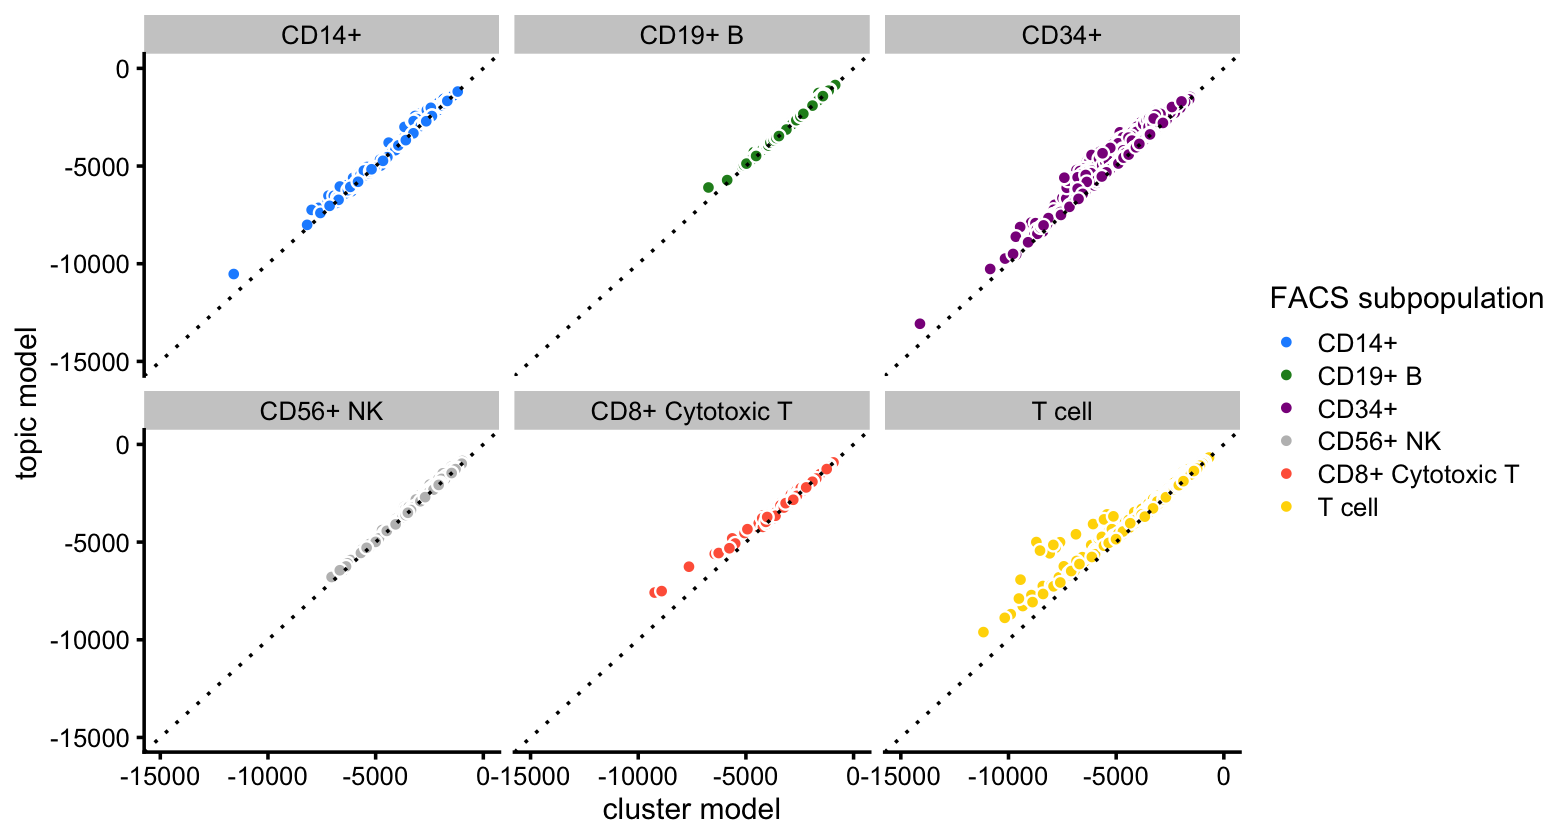
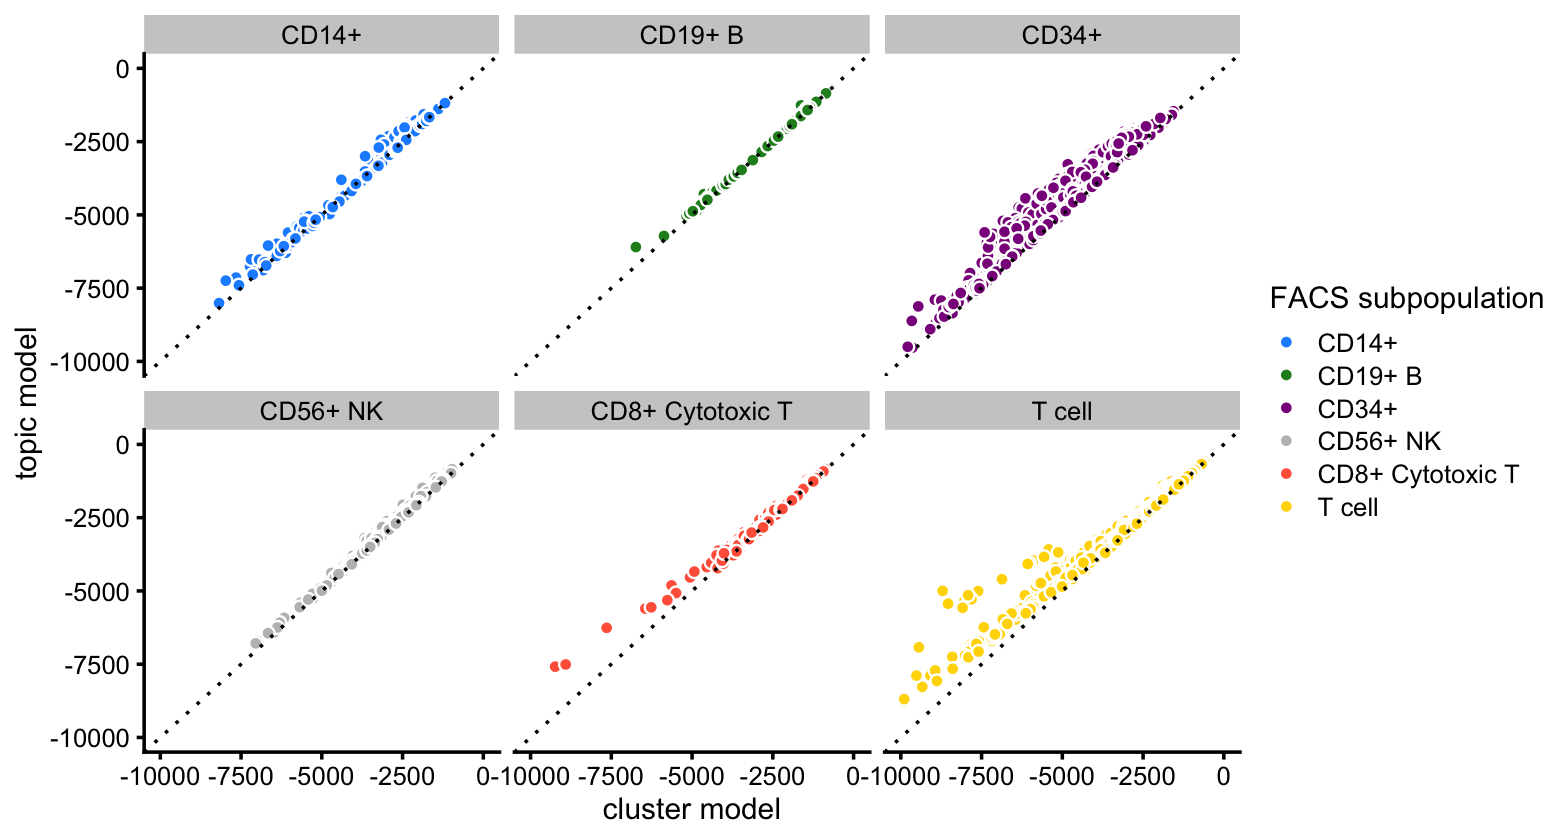
Added more scatterplots to loglik_purified_pbmc analysis.

diff --git a/docs/loglik_purified_pbmc.html b/docs/loglik_purified_pbmc.html
@@ -323,7 +323,7 @@ $(document).ready(function () {
 <div class="tab-content">
 <div id="summary" class="tab-pane fade in active">
 <p>
-<strong>Last updated:</strong> 2021-01-05
+<strong>Last updated:</strong> 2021-01-06
 </p>
 <p>
 <strong>Checks:</strong> <span class="glyphicon glyphicon-ok text-success" aria-hidden="true"></span> 7 <span class="glyphicon glyphicon-exclamation-sign text-danger" aria-hidden="true"></span> 0
@@ -414,16 +414,16 @@ This reproducible <a href="http://rmarkdown.rstudio.com">R Markdown</a> analysis
 <div class="panel panel-default">
 <div class="panel-heading">
 <p class="panel-title">
-<a data-toggle="collapse" data-parent="#workflowr-checks" href="#strongRepositoryversionstrongahrefhttpsgithubcomstephenslabsinglecelltopicstree3faedcf1fcbbf04c41f21b36d8855766fda66f00targetblank3faedcfa"> <span class="glyphicon glyphicon-ok text-success" aria-hidden="true"></span> <strong>Repository version:</strong> <a href="https://github.com/stephenslab/single-cell-topics/tree/3faedcf1fcbbf04c41f21b36d8855766fda66f00" target="_blank">3faedcf</a> </a>
+<a data-toggle="collapse" data-parent="#workflowr-checks" href="#strongRepositoryversionstrongahrefhttpsgithubcomstephenslabsinglecelltopicstree994fafcf53e188c0ed02b6a7cd298da01357cd7etargetblank994fafca"> <span class="glyphicon glyphicon-ok text-success" aria-hidden="true"></span> <strong>Repository version:</strong> <a href="https://github.com/stephenslab/single-cell-topics/tree/994fafcf53e188c0ed02b6a7cd298da01357cd7e" target="_blank">994fafc</a> </a>
 </p>
 </div>
[2 lines of base64/hex data omitted]
 <div class="panel-body">
 <p>
 Great! You are using Git for version control. Tracking code development and connecting the code version to the results is critical for reproducibility.
 </p>
 <p>
-The results in this page were generated with repository version <a href="https://github.com/stephenslab/single-cell-topics/tree/3faedcf1fcbbf04c41f21b36d8855766fda66f00" target="_blank">3faedcf</a>. See the <em>Past versions</em> tab to see a history of the changes made to the R Markdown and HTML files.
+The results in this page were generated with repository version <a href="https://github.com/stephenslab/single-cell-topics/tree/994fafcf53e188c0ed02b6a7cd298da01357cd7e" target="_blank">994fafc</a>. See the <em>Past versions</em> tab to see a history of the changes made to the R Markdown and HTML files.
 </p>
 <p>
 Note that you need to be careful to ensure that all relevant files for the analysis have been committed to Git prior to generating the results (you can use <code>wflow_publish</code> or <code>wflow_git_commit</code>). workflowr only checks the R Markdown file, but you know if there are other scripts or data files that it depends on. Below is the status of the Git repository when the results were generated:
@@ -447,11 +447,8 @@ Ignored files:
     Ignored:    output/pulseseq/rds/
 
 Untracked files:
-    Untracked:  analysis/clustering-pbmc-purified.rds
+    Untracked:  analysis/plots_purified_pbmc_cache/
     Untracked:  plots/
-
-Unstaged changes:
-    Modified:   analysis/plots_purified_pbmc.Rmd
 
 </code></pre>
 <p>
@@ -490,6 +487,57 @@ Message
 </tr>
 </thead>
 <tbody>
+<tr>
+<td>
+Rmd
+</td>
+<td>
+<a href="https://github.com/stephenslab/single-cell-topics/blob/994fafcf53e188c0ed02b6a7cd298da01357cd7e/analysis/loglik_purified_pbmc.Rmd" target="_blank">994fafc</a>
+</td>
+<td>
+Peter Carbonetto
+</td>
+<td>
+2021-01-06
+</td>
+<td>
+workflowr::wflow_publish(“loglik_purified_pbmc.Rmd”)
+</td>
+</tr>
+<tr>
+<td>
+Rmd
+</td>
+<td>
+<a href="https://github.com/stephenslab/single-cell-topics/blob/4d3523f2c5b916db049f45fc4c13d4b9288224f2/analysis/loglik_purified_pbmc.Rmd" target="_blank">4d3523f</a>
+</td>
+<td>
+Peter Carbonetto
+</td>
+<td>
+2021-01-06
+</td>
+<td>
+Recreated purified_pbmc volcano plots after removing cache.
+</td>
+</tr>
+<tr>
+<td>
+html
+</td>
+<td>
+<a href="https://rawcdn.githack.com/stephenslab/single-cell-topics/0a1bc0c41b6ca7320c1b089a9dd691aaae59f0c7/docs/loglik_purified_pbmc.html" target="_blank">0a1bc0c</a>
+</td>
+<td>
+Peter Carbonetto
+</td>
+<td>
+2021-01-05
+</td>
+<td>
+Added some explanatory text to the loglik_purified_pbmc analysis.
+</td>
+</tr>
 <tr>
 <td>
 Rmd
@@ -888,12 +936,13 @@ pdat &lt;- data.frame(x = loglik_subpop,y = loglik,celltype = celltype)
 p3 &lt;- ggplot(pdat,aes(x = x,y = y,fill = celltype)) +
   geom_point(shape = 21,color = &quot;white&quot;) +
   geom_abline(intercept = 0,slope = 1,linetype = &quot;dotted&quot;) +
-  scale_x_continuous(limits = c(-15000,0),breaks = seq(-20000,0,2500)) +
-  scale_y_continuous(limits = c(-15000,0),breaks = seq(-20000,0,2500)) +
+  scale_x_continuous(limits = c(-10000,0),breaks = seq(-10000,0,2500)) +
+  scale_y_continuous(limits = c(-10000,0),breaks = seq(-10000,0,2500)) +
   scale_fill_manual(values = facs_colors) +
   labs(x = &quot;cluster model&quot;,y = &quot;topic model&quot;,fill = &quot;FACS subpopulation&quot;) +
   theme_cowplot(font_size = 9)
-print(p3)</code></pre>
+print(p3)
+# Warning: Removed 7 rows containing missing values (geom_point).</code></pre>
 <p><img src="figure/loglik_purified_pbmc.Rmd/loglik-5-1.png" width="480" style="display: block; margin: auto;" /></p>
 <p>
 <button type="button" class="btn btn-default btn-xs btn-workflowr btn-workflowr-fig" data-toggle="collapse" data-target="#fig-loglik-5-1">
@@ -948,12 +997,13 @@ Peter Carbonetto
   geom_point(shape = 21,color = &quot;white&quot;) +
   geom_abline(intercept = 0,slope = 1,linetype = &quot;dotted&quot;) +
   facet_wrap(vars(celltype)) +
-  scale_x_continuous(limits = c(-15000,0),breaks = seq(-20000,0,5000)) +
-  scale_y_continuous(limits = c(-15000,0),breaks = seq(-20000,0,5000)) +
+  scale_x_continuous(limits = c(-10000,0),breaks = seq(-10000,0,2500)) +
+  scale_y_continuous(limits = c(-10000,0),breaks = seq(-10000,0,2500)) +
   scale_fill_manual(values = facs_colors) +
   labs(x = &quot;cluster model&quot;,y = &quot;topic model&quot;,fill = &quot;FACS subpopulation&quot;) +
   theme_cowplot(font_size = 9)
-print(p4)</code></pre>
+print(p4)
+# Warning: Removed 7 rows containing missing values (geom_point).</code></pre>
 <p><img src="figure/loglik_purified_pbmc.Rmd/loglik-6-1.png" width="780" style="display: block; margin: auto;" /></p>
 <p>
 <button type="button" class="btn btn-default btn-xs btn-workflowr btn-workflowr-fig" data-toggle="collapse" data-target="#fig-loglik-6-1">
@@ -1004,6 +1054,27 @@ Peter Carbonetto
 </div>
 </div>
 <p>It is interesting that the topic model almost always provides a better fit for the T cells considering that the simple “clustering” model estimates a different expression pattern for each T cell subtype (e.g., naive T cells), whereas the topic model does not reach this level of granularity in the T cells.</p>
+<p>Finally, we compare the topic model likelihoods against another “clustering” model, this time using the clusters identifies from the mixture proportions.</p>
+<pre class="r"><code>fit_clusters &lt;- init_poisson_nmf_from_clustering(counts,samples$cluster)
+fit_clusters &lt;- poisson2multinom(fit_clusters)
+loglik_clusters &lt;- loglik_multinom_topic_model(counts,fit_clusters)</code></pre>
+<p>This is an interesting case where defining a separate cluster for the dendritic cells actually yields a better fit than the topic model. However, because only 308 cells are assigned to this cluster—only 0.3% of the total—the overall impact on the fit to the data is small.</p>
+<pre class="r"><code>pdat &lt;- data.frame(x = loglik_clusters,y = loglik,cluster = samples$cluster)
+p5 &lt;- ggplot(pdat,aes(x = x,y = y)) +
+  geom_point(shape = 21,color = &quot;white&quot;,fill = &quot;royalblue&quot;) +
+  geom_abline(intercept = 0,slope = 1,linetype = &quot;dotted&quot;) +
+  facet_wrap(vars(cluster)) +
+  scale_x_continuous(limits = c(-10000,0),breaks = seq(-10000,0,2500)) +
+  scale_y_continuous(limits = c(-10000,0),breaks = seq(-10000,0,2500)) +
+  labs(x = &quot;cluster model&quot;,y = &quot;topic model&quot;) +
+  theme_cowplot(font_size = 9)
+print(p5)
+# Warning: Removed 9 rows containing missing values (geom_point).</code></pre>
+<p><img src="figure/loglik_purified_pbmc.Rmd/loglik-8-1.png" width="840" style="display: block; margin: auto;" /></p>
+<pre><code># Warning: Removed 7 rows containing missing values (geom_point).
+
+# Warning: Removed 7 rows containing missing values (geom_point).
+# Warning: Removed 9 rows containing missing values (geom_point).</code></pre>
 <br>
 <p>
 <button type="button" class="btn btn-default btn-workflowr btn-workflowr-sessioninfo" data-toggle="collapse" data-target="#workflowr-sessioninfo" style="display: block;">
